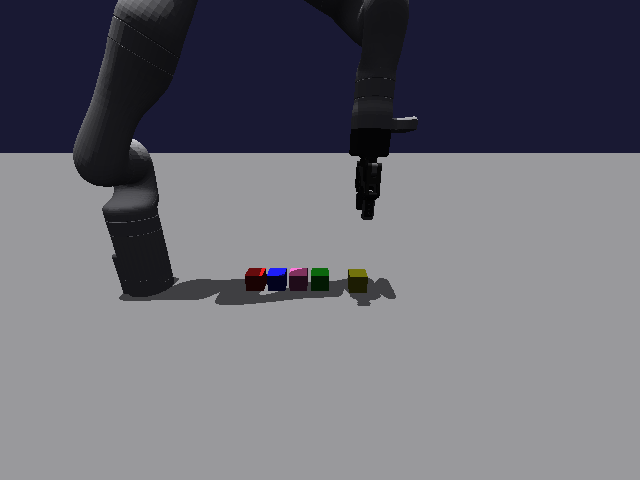
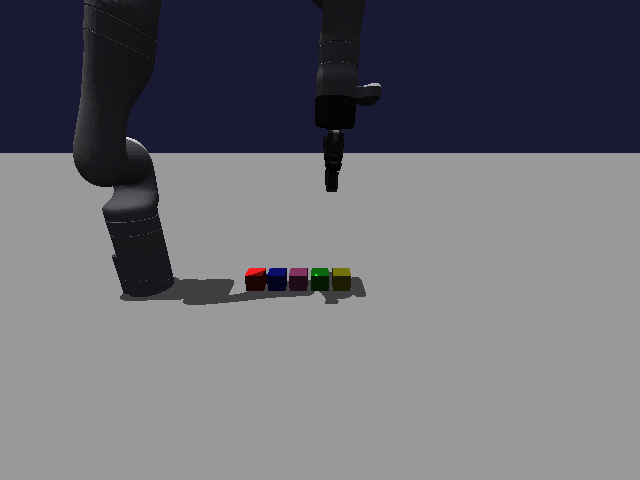
parameter update to mujoco modeling

diff --git a/skillet/controllers/waypoints.py b/skillet/controllers/waypoints.py
@@ -12,7 +12,7 @@ class WaypointCfg:
 
     max_points: int | None = 20
     """Maximum number of waypoints in a trajectory."""
-    max_dist: float | None = 0.15
+    max_dist: float | None = 0.10
     """Maximum distance between waypoints in a trajectory."""
     max_rad: float | None = 0.75
     """Maximum radian error between waypoitns in a trajectory."""

diff --git a/skillet/envs/mujoco/controllers/differential_ik.py b/skillet/envs/mujoco/controllers/differential_ik.py
@@ -17,7 +17,7 @@ class MjDifferentialIk:
             joint_limit_weight=0.1,
             damping=0.01,
             use_relative_mode=False,
-            max_dq=0.25,
+            max_dq=0.2,
             orientation_weight=100.0,
         )
         self._ik_action = self._ik_action_cfg.build(self._env)
